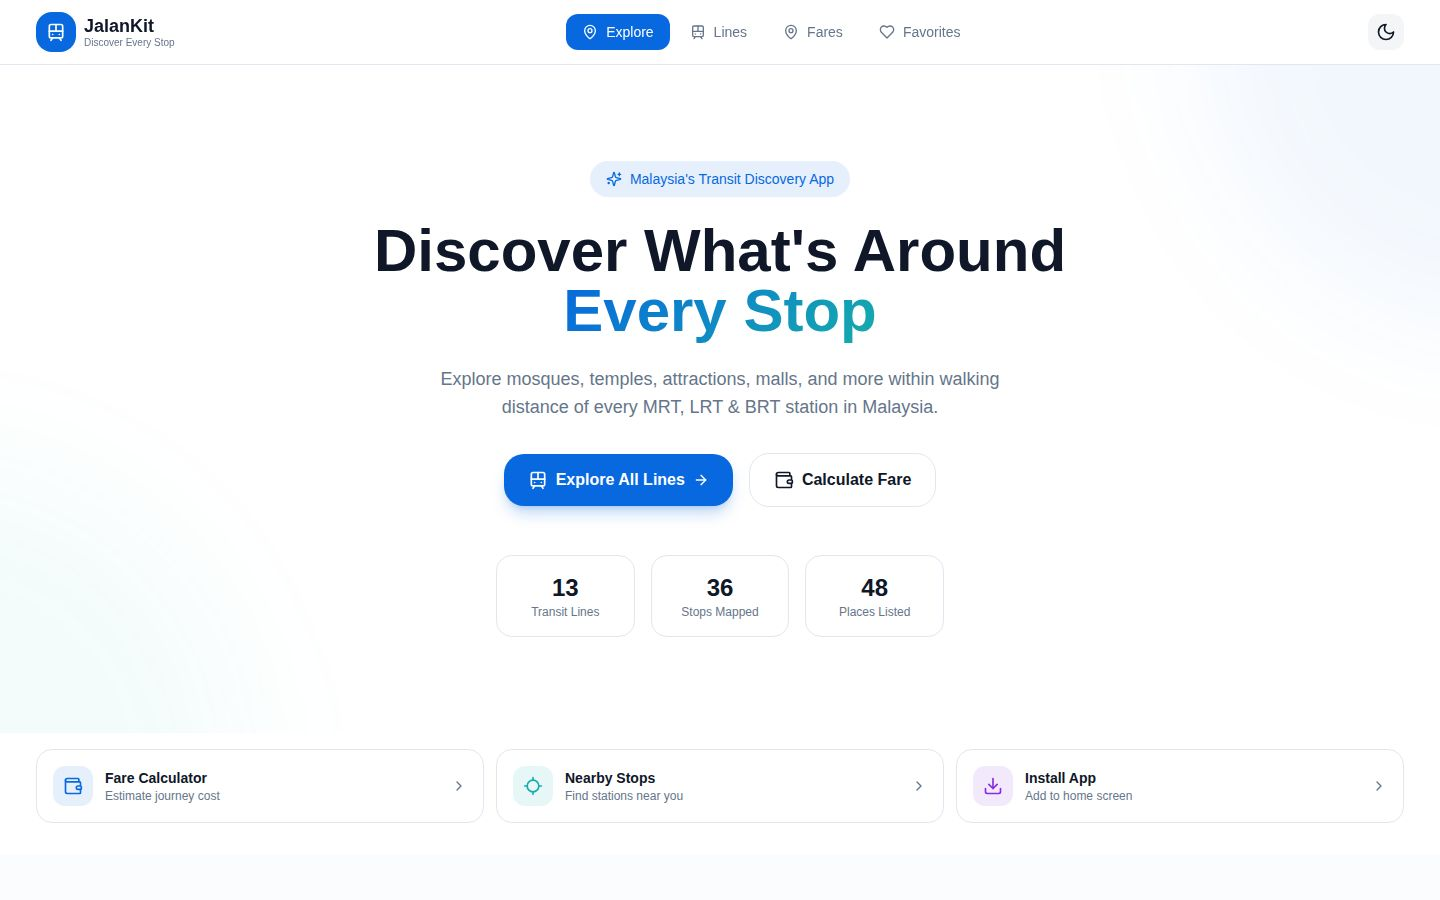
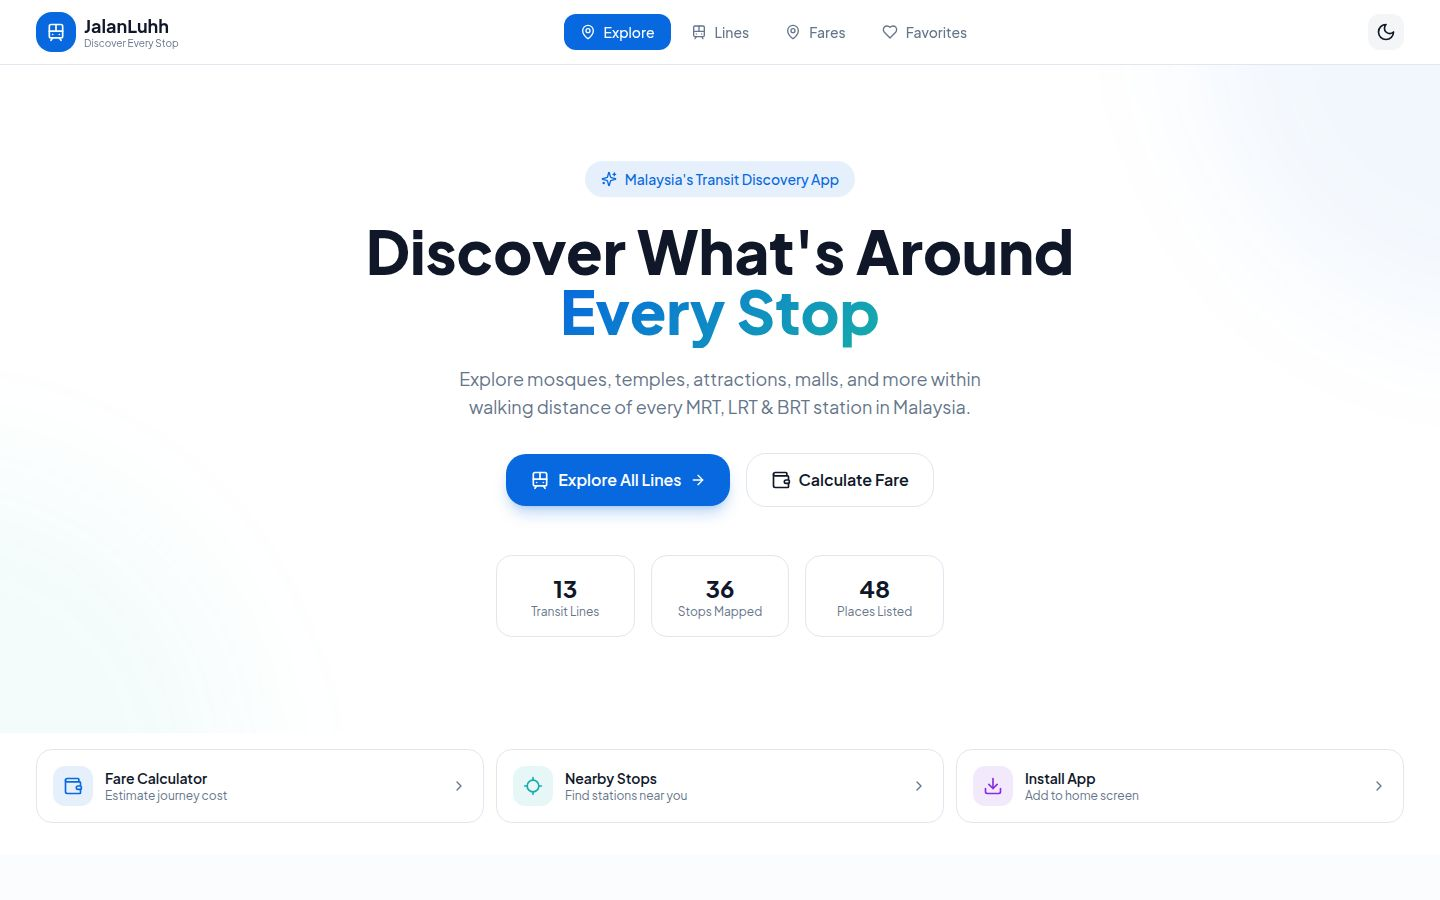
feat: add ScreenshotGallery component with lightbox functionality and styles
- Implemented ScreenshotGallery component to display project screenshots.
- Added CSS styles for the gallery layout, navigation, and lightbox.
- Integrated keyboard controls for lightbox navigation.
- Created data structure for hackathon experiences to be displayed on the home section.

diff --git a/portfolio-react/src/data/projects.js b/portfolio-react/src/data/projects.js
@@ -269,7 +269,7 @@ export const projects = [
             "Station timeline with combined search (stop or amenity name) and multi-select category filters",
             "Fare calculator with distance-based estimates and 50% Student/Senior/OKU/Child concessions, plus travel time and stop count",
             "Nearby Stops uses browser geolocation and the Haversine formula to find the 5 closest stations within 3 km",
-            "Favourites saved in localStorage, light/dark theme, Web Share and a PWA install flow",
+            "Installable, offline-capable PWA (vite-plugin-pwa + Workbox service worker), plus favourites in localStorage, light/dark theme and Web Share",
         ],
     },
     {

diff --git a/portfolio-react/public/docs/jalanluhh.md b/portfolio-react/public/docs/jalanluhh.md
@@ -30,7 +30,7 @@
 
 Most transit apps tell you how to get to a station. JalanLuhh starts from the other end: it shows what's around each station once you arrive. Every stop on a line has a list of nearby places (masjid, temples, churches, malls, parks, hospitals, schools, gyms and food spots), each with its walking distance, a short description and a one-tap **Open in Maps** link.
 
-The app was first called **JalanKit**, and the UI and storage keys still use that name. Right now it's a frontend-only Progressive Web App. All the station and amenity data is bundled as typed TypeScript, and personal data (favourites, theme) is kept in `localStorage`. The `backend/` folder is a placeholder for a planned API.
+The app was originally called **JalanKit**. Right now it's a frontend-only, installable Progressive Web App with a Workbox service worker. All the station and amenity data is bundled as typed TypeScript, and personal data (favourites, theme) is kept in `localStorage`. The `backend/` folder is a placeholder for a planned API.
 
 **Current coverage**
 
@@ -62,12 +62,12 @@ The app was first called **JalanKit**, and the UI and storage keys still use tha
 - ✅ Fare calculator: pick a line, origin and destination, and passenger type (Adult / Student / Senior / OKU / Child) to get an estimated fare, travel time, distance and stop count
 - ✅ Nearby Stops: browser geolocation plus Haversine distance to list the 5 closest stations within 3 km
 - ✅ Light / dark theme toggle (follows the system setting on first visit)
+- ✅ Installable PWA via `vite-plugin-pwa`: generated web manifest (standalone, portrait, 192/512 px and maskable icons, `#1967D2` theme colour)
+- ✅ Workbox service worker with auto-update: precaches the app shell (JS, CSS, HTML, icons, fonts) and caches Google Fonts with CacheFirst, so the app and its bundled station data keep working offline
 - ✅ Install page that hooks into `beforeinstallprompt`, with manual steps for iOS Safari
 - ✅ Responsive layout with a collapsible mobile nav
 - 🚧 Station data for the remaining 12 lines *(cards show "Coming Soon")*
-- 🚧 Offline caching via service worker *(`vite-plugin-pwa` is installed but not configured yet; the manifest exists)*
 - 🚧 Line service status widget (operating hours, peak/off-peak frequency, facilities) *(`LineStatus` component is built but not mounted on any page)*
-- 🚧 Rebrand UI copy from JalanKit to JalanLuhh
 - 💡 Backend API for stations, amenities and crowd-sourced place submissions *(currently a Google Form link)*
 - 💡 Cross-line journeys with interchanges and transfer-aware fares
 - 💡 Live arrivals from open GTFS-Realtime feeds
@@ -93,6 +93,7 @@ graph TD
         GEO["Geolocation API"]
         SHARE["Web Share API"]
         PWA["Web App Manifest<br/>beforeinstallprompt"]
+        SW["Workbox Service Worker<br/>precache + runtime cache"]
     end
     subgraph Planned["Planned"]
         BE["Backend API"]
@@ -102,6 +103,7 @@ graph TD
     FE --> GEO
     FE --> SHARE
     FE --> PWA
+    FE --> SW
     FE -.-> BE
 ```
 
@@ -110,13 +112,13 @@ graph TD
 | Framework | React 18 + TypeScript |
 | Build tool | Vite 7 with `@vitejs/plugin-react-swc` |
 | Routing | React Router v6 |
-| UI | Tailwind CSS · shadcn/ui (Radix UI primitives) · Lucide icons |
+| UI | Tailwind CSS · shadcn/ui (Radix UI primitives) · Lucide icons · Plus Jakarta Sans |
 | Animation | Framer Motion |
 | Server state | TanStack React Query (provider wired, ready for the API) |
 | Data | Typed static TypeScript modules |
 | Persistence | `localStorage` (favourites, theme) |
 | Geo | Browser Geolocation API + Haversine formula |
-| PWA | Web App Manifest · install prompt handling · `vite-plugin-pwa` (pending) |
+| PWA | `vite-plugin-pwa` · Workbox service worker (auto-update) · Web App Manifest · install prompt handling |
 | Backend | 🚧 Planned |
 
 ---
@@ -127,7 +129,8 @@ graph TD
 
 ```mermaid
 graph LR
-    U[Commuter / Browser] --> SPA[React SPA]
+    U[Commuter / Browser] --> SW[Service Worker<br/>Workbox cache]
+    SW --> SPA[React SPA]
     SPA --> DATA[Bundled transit data]
     SPA --> LS[(localStorage)]
     SPA --> GEO[Geolocation API]
@@ -302,8 +305,8 @@ erDiagram
 
 | Key | Contents |
 |---|---|
-| `jalankit_favorites` | Array of `Favorite` objects (stops and amenities) |
-| `jalankit_theme` | `"light"` or `"dark"` |
+| `jalanluhh_favorites` | Array of `Favorite` objects (stops and amenities) |
+| `jalanluhh_theme` | `"light"` or `"dark"` |
 
 ---
 
@@ -420,10 +423,34 @@ flowchart LR
     A[Heart on StopCard / StopDetail / AmenityCard] --> B{isFavorite?}
     B -->|Yes| C[removeFavorite]
     B -->|No| D[addFavorite]
-    C --> E[(localStorage<br/>jalankit_favorites)]
+    C --> E[(localStorage<br/>jalanluhh_favorites)]
     D --> E
     E --> F[FavoritesPage<br/>Saved Stops · Saved Places]
     F -->|resolve ids across all lines| G[Stop / Amenity details]
+```
+
+### PWA and Offline
+
+```mermaid
+sequenceDiagram
+    participant U as User
+    participant B as Browser
+    participant SW as Workbox Service Worker
+    participant C as Cache Storage
+    participant N as Network
+
+    U->>B: First visit
+    B->>SW: registerSW.js registers the worker
+    SW->>N: Fetch app shell (JS, CSS, HTML, icons)
+    SW->>C: Precache app shell
+    B-->>U: Install prompt (beforeinstallprompt / iOS Add to Home Screen)
+    Note over U,N: Later, offline or on a weak signal underground
+    U->>B: Open JalanLuhh from home screen
+    B->>SW: Request app
+    SW->>C: Serve precached shell + bundled station data
+    C-->>U: App loads offline
+    SW->>N: Google Fonts (CacheFirst, 1 year)
+    Note over SW,N: registerType autoUpdate swaps in new builds automatically
 ```
 
 ---
@@ -437,7 +464,9 @@ JalanLuhh/
 │
 └── frontend/
     ├── public/
-    │   └── manifest.json    PWA manifest
+    │   ├── manifest.json    Static web manifest
+    │   └── pwa-*.png        PWA icons (192 / 512)
+    ├── vite.config.ts       Vite + VitePWA (manifest, Workbox caching)
     └── src/
         ├── pages/
         │   ├── home/        Landing, stats, popular stops
@@ -473,11 +502,11 @@ JalanLuhh/
 - [x] Favourites for stops and places
 - [x] Fare calculator with concession types
 - [x] Geolocation-based Nearby Stops
-- [x] PWA manifest and install page
+- [x] Installable PWA (manifest, icons, install page)
+- [x] Workbox service worker for offline access and auto-updates
+- [x] Rebrand from JalanKit to JalanLuhh
 - [ ] Station and amenity data for MRT Kajang, LRT Kelana Jaya / Ampang / Sri Petaling, Monorail, KTM, ERL and BRT
-- [ ] Service worker for offline access (`vite-plugin-pwa`)
 - [ ] Mount `LineStatus` on line pages
-- [ ] Complete JalanKit to JalanLuhh rebrand in the UI
 - [ ] Backend API and database for stations, amenities and submissions
 - [ ] In-app "Submit a Place" form with moderation
 - [ ] Cross-line routing with interchanges
